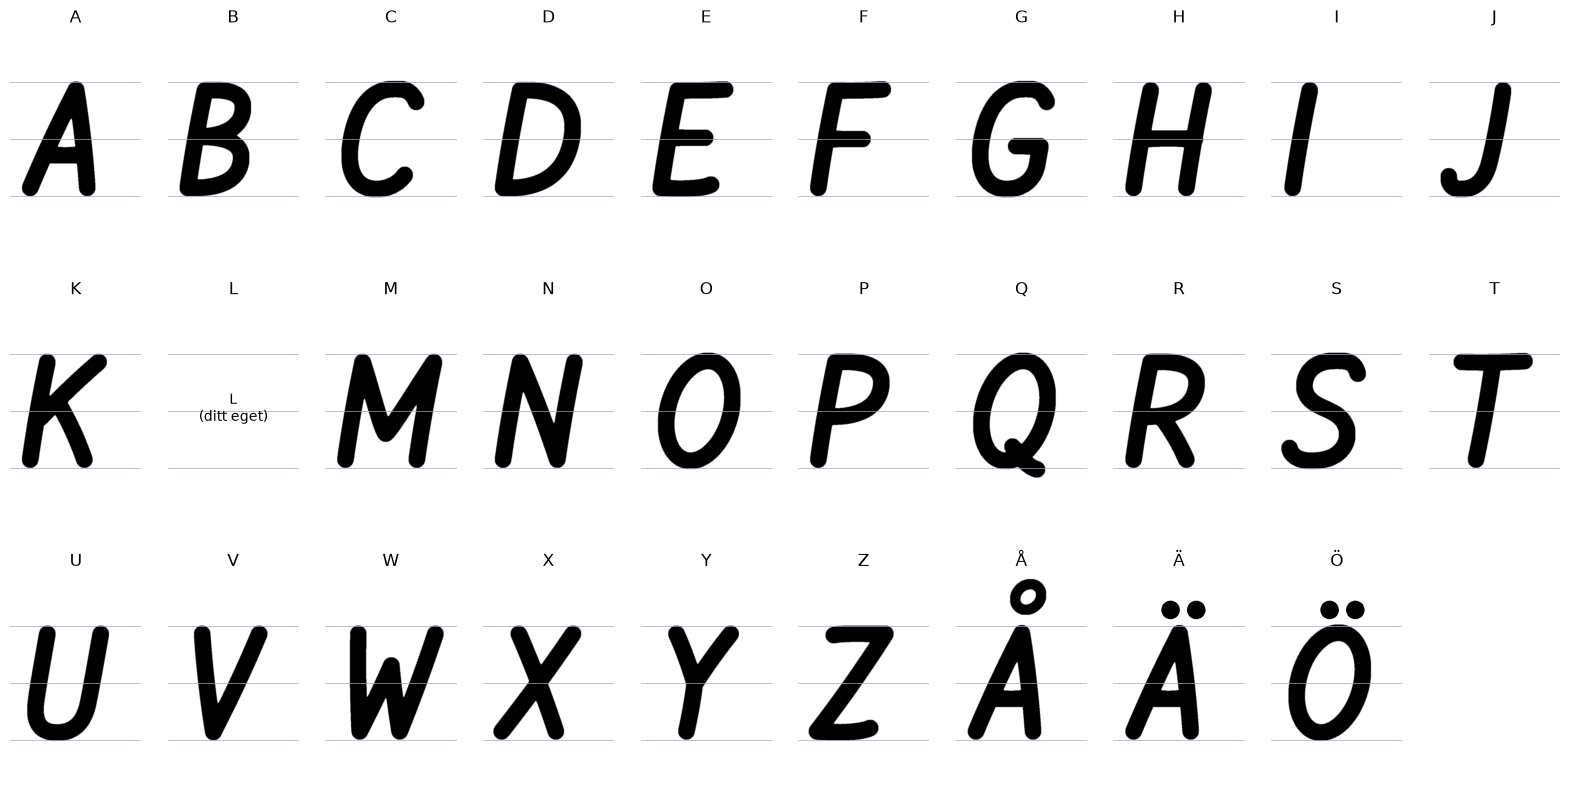
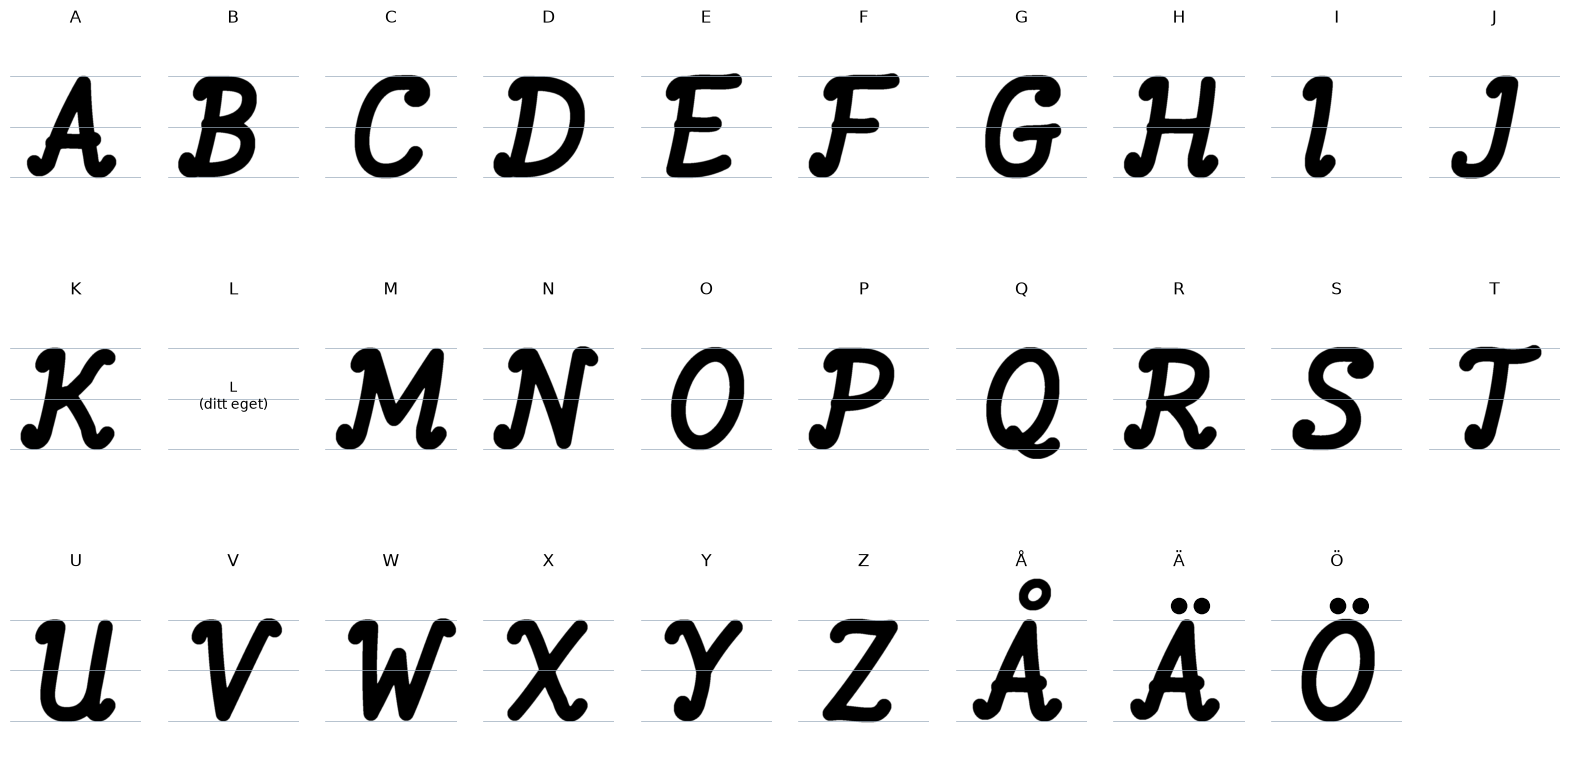
Svängigare versaler: insvängar, snirkel- och flickfötter, vågiga tvärstreck
Claude-Session: https://claude.ai/code/session_01G3Fa1qrTuHzte3kfXkaDtX

diff --git a/bokstaver/versaler.py b/bokstaver/versaler.py
@@ -54,113 +54,178 @@ def stam(x, bage=0.03):
     return linje((x, LO), (x, HI), bage)
 
 
+# --- Svängar (i samma anda som ditt L och gemenernas fötter) -------------------
+def entre(x, y=HI):
+    """Insväng uppe till vänster som leder in i en stapel."""
+    return kedja((x - 0.55, y - 0.4), ((x - 0.55, y - 0.05), (x - 0.25, y + 0.06), (x, y)))
+
+
+def flick(x, y0=0.8, lut=0.0):
+    """Fot som svänger ut åt höger, som på gemenerna (h, n, a)."""
+    x1 = x + lut * (y0 - LO - 0.1)
+    return kedja((x, y0), ((x1, LO + 0.1), (x1 + 0.15, LO - 0.04), (x1 + 0.33, LO - 0.03)),
+                 ((x1 + 0.48, LO - 0.02), (x1 + 0.58, LO + 0.12), (x1 + 0.66, LO + 0.32)))
+
+
+def snirkel(x, y0=0.85, lut=0.0):
+    """Fot som snirklar ut åt vänster, som nedre svängen på ditt L."""
+    x1 = x + lut * (y0 - LO - 0.1)
+    return kedja((x, y0), ((x1, LO + 0.05), (x1 - 0.2, LO - 0.05), (x1 - 0.42, LO - 0.01)),
+                 ((x1 - 0.6, LO + 0.03), (x1 - 0.7, LO + 0.22), (x1 - 0.6, LO + 0.42)))
+
+
+def stapel(x, topp=True, fot="snirkel", bage=0.07):
+    """Stapel med lätt sväng, valfri insväng upptill och fot (snirkel/flick/None)."""
+    y0 = 0.85 if fot else LO
+    ut = [linje((x, HI), (x, y0), bage)]
+    if topp:
+        ut.append(entre(x))
+    if fot == "snirkel":
+        ut.append(snirkel(x, y0))
+    elif fot == "flick":
+        ut.append(flick(x, y0))
+    return ut
+
+
+def vag(p0, p1, amp=0.08):
+    """Vågigt tvärstreck (S-sväng)."""
+    p0, p1 = np.array(p0, float), np.array(p1, float)
+    d = p1 - p0; n = np.array([-d[1], d[0]]) / np.hypot(*d)
+    return bez(p0, p0 + d / 3 + n * amp * 2, p0 + 2 * d / 3 - n * amp * 2, p1)
+
+
+def stam(x, bage=0.03):
+    return linje((x, LO), (x, HI), bage)
+
+
 # --- Versalerna (raka, före lutning) -----------------------------------------
 def A():
     top = (1.35, HI + 0.02)
-    return [linje((0.35, LO), top, 0.04), linje(top, (2.35, LO), 0.04), linje((0.8, 1.45), (1.9, 1.45), -0.02)]
+    return [kedja((-0.05, LO + 0.3), ((0.05, LO - 0.05), (0.3, LO - 0.04), (0.5, 0.55))),
+            linje((0.5, 0.55), top, 0.1), linje(top, (2.15, 0.8), -0.06), flick(2.15, 0.8, 0.25),
+            vag((0.55, 1.35), (2.15, 1.5), 0.07)]
 
 def B():
-    return [stam(0.35),
+    return stapel(0.35, fot="snirkel") + [
             kedja((0.35, HI), ((1.2, HI + 0.05), (1.8, HI - 0.1), (1.8, 2.95)),
                   ((1.8, 2.35), (1.2, 2.08), (0.35, 2.08))),
             kedja((0.35, 2.08), ((1.4, 2.1), (2.05, 1.85), (2.05, 1.2)),
                   ((2.05, 0.5), (1.4, LO - 0.03), (0.35, LO)))]
 
 def C():
-    return [kedja((2.3, 3.3), ((2.0, HI + 0.12), (1.6, HI + OV), (1.4, HI + OV)),
+    return [kedja((1.95, 3.15), ((2.15, 2.95), (2.45, 3.15), (2.35, 3.42)),
+                  ((2.2, HI + 0.12), (1.75, HI + OV), (1.4, HI + OV)),
                   ((0.6, HI + OV), (0.25, 3.0), (0.25, 2.0)),
                   ((0.25, 0.9), (0.7, LO - OV), (1.45, LO - OV)),
-                  ((1.85, LO - OV), (2.2, 0.45), (2.35, 0.75)))]
+                  ((1.95, LO - OV), (2.35, 0.5), (2.5, 0.95)))]
 
 def D():
-    return [stam(0.35),
+    return stapel(0.35, fot="snirkel") + [
             kedja((0.35, HI), ((1.6, HI + 0.06), (2.45, 3.3), (2.45, 2.0)),
                   ((2.45, 0.7), (1.6, LO - 0.06), (0.35, LO)))]
 
 def E():
-    return [stam(0.35), linje((0.35, HI), (2.0, HI + 0.03), -0.02), linje((0.35, 2.05), (1.6, 2.05), 0.0),
-            kedja((0.35, LO), ((1.0, LO - 0.04), (1.8, LO - 0.05), (2.1, LO + 0.12)))]
+    return stapel(0.35, fot=None) + [vag((0.35, HI), (2.15, HI + 0.12), 0.06), vag((0.35, 2.05), (1.65, 2.12), 0.05),
+            kedja((0.35, LO), ((1.0, LO - 0.08), (1.75, LO + 0.0), (2.3, LO + 0.32)))]
 
 def F():
-    return [stam(0.35), linje((0.35, HI), (2.0, HI + 0.03), -0.02), linje((0.35, 2.0), (1.6, 2.0), 0.0)]
+    return stapel(0.35, fot="snirkel") + [vag((0.35, HI), (2.15, HI + 0.12), 0.06), vag((0.35, 2.0), (1.65, 2.07), 0.05)]
 
 def G():
-    return [kedja((2.3, 3.3), ((2.0, HI + 0.12), (1.6, HI + OV), (1.4, HI + OV)),
+    return [kedja((1.95, 3.15), ((2.15, 2.95), (2.45, 3.15), (2.35, 3.42)),
+                  ((2.2, HI + 0.12), (1.75, HI + OV), (1.4, HI + OV)),
                   ((0.6, HI + OV), (0.25, 3.0), (0.25, 2.0)),
                   ((0.25, 0.9), (0.7, LO - OV), (1.45, LO - OV)),
                   ((2.0, LO - OV), (2.35, 0.6), (2.35, 1.1)),
-                  ((2.35, 1.4), (2.35, 1.6), (2.35, 1.75))),
-            linje((1.5, 1.75), (2.35, 1.75), 0.0)]
+                  ((2.35, 1.4), (2.35, 1.6), (2.35, 1.8))),
+            vag((1.35, 1.7), (2.65, 1.85), 0.05)]
 
 def H():
-    return [stam(0.35), stam(2.2), linje((0.35, 2.0), (2.2, 2.0), 0.02)]
+    return stapel(0.35, fot="snirkel") + stapel(2.2, topp=False, fot="flick") + [vag((0.35, 1.95), (2.2, 2.1), 0.07)]
 
 def I():
-    return [stam(0.4)]
+    return stapel(0.6, fot="flick")
 
 def J_():
-    return [kedja((1.65, HI), ((1.68, 2.8), (1.66, 1.6), (1.6, 1.05)),
-                  ((1.5, 0.35), (1.1, LO - 0.05), (0.75, LO - 0.04)),
-                  ((0.45, LO - 0.03), (0.3, 0.45), (0.28, 0.7)))]
+    return [kedja((1.05, HI - 0.3), ((1.15, HI + 0.05), (1.5, HI + 0.06), (1.7, HI)),
+                  ((1.72, 2.8), (1.7, 1.6), (1.62, 1.05)),
+                  ((1.5, 0.35), (1.1, LO - 0.06), (0.7, LO - 0.05)),
+                  ((0.35, LO - 0.04), (0.12, 0.35), (0.2, 0.75)))]
 
 def K_():
-    return [stam(0.35), linje((2.15, HI), (0.45, 1.75), -0.04), linje((1.0, 2.25), (2.25, LO), 0.05)]
+    return stapel(0.35, fot="snirkel") + [kedja((2.35, HI - 0.1), ((2.2, HI + 0.05), (1.9, HI), (1.6, 2.8)),
+                                                ((1.2, 2.3), (0.8, 1.85), (0.4, 1.75))),
+                                          linje((0.95, 2.2), (2.05, 0.8), 0.06), flick(2.05, 0.8, 0.3)]
 
 def M():
-    return [stam(0.35), stam(2.85), kedja((0.35, HI), ((0.9, 2.6), (1.4, 1.4), (1.6, 1.2)),
-                                          ((1.8, 1.4), (2.3, 2.6), (2.85, HI)))]
+    return stapel(0.35, fot="snirkel") + stapel(2.85, topp=False, fot="flick") + [
+            kedja((0.35, HI), ((0.9, 2.6), (1.4, 1.4), (1.6, 1.2)), ((1.8, 1.4), (2.3, 2.6), (2.85, HI)))]
 
 def N():
-    return [stam(0.35), stam(2.25), linje((0.35, HI), (2.25, LO), 0.04)]
+    return stapel(0.35, fot="snirkel") + [linje((0.35, HI), (2.25, LO), 0.08),
+            kedja((2.25, LO), ((2.25, 1.5), (2.25, 2.8), (2.27, HI)), ((2.3, HI + 0.12), (2.55, HI + 0.1), (2.75, HI - 0.15)))]
 
 def O():
     return [ellips(1.4, 2.0, 1.12, HI - 2.0 + OV)]
 
 def P():
-    return [stam(0.35), kedja((0.35, HI), ((1.4, HI + 0.06), (2.1, HI - 0.15), (2.1, 2.8)),
-                              ((2.1, 2.05), (1.4, 1.75), (0.35, 1.8)))]
+    return stapel(0.35, fot="snirkel") + [kedja((0.35, HI), ((1.4, HI + 0.06), (2.1, HI - 0.15), (2.1, 2.8)),
+                                                ((2.1, 2.05), (1.4, 1.75), (0.35, 1.8)))]
 
 def Q():
-    return O() + [kedja((1.55, 0.75), ((1.85, 0.45), (2.15, 0.05), (2.55, -0.05)))]
+    return O() + [kedja((1.25, 0.65), ((1.65, 0.2), (2.0, -0.15), (2.4, -0.1)),
+                        ((2.6, -0.07), (2.78, 0.02), (2.9, 0.18)))]
 
 def R_():
-    return P() + [linje((1.05, 1.8), (2.2, LO), 0.05)]
+    return P() + [linje((1.05, 1.8), (2.0, 0.8), 0.06), flick(2.0, 0.8, 0.3)]
 
 def S():
-    return [kedja((2.15, 3.3), ((1.95, HI + 0.08), (1.6, HI + OV), (1.25, HI + OV)),
+    return [kedja((1.85, 3.15), ((2.05, 2.95), (2.4, 3.15), (2.25, 3.42)),
+                  ((2.05, HI + 0.1), (1.6, HI + OV), (1.25, HI + OV)),
                   ((0.6, HI + OV), (0.3, 3.4), (0.35, 2.9)),
                   ((0.45, 2.3), (1.1, 2.15), (1.4, 2.0)),
                   ((2.0, 1.75), (2.25, 1.3), (2.15, 0.85)),
                   ((2.0, 0.35), (1.5, LO - OV), (1.05, LO - OV)),
-                  ((0.6, LO - OV), (0.3, 0.45), (0.22, 0.7)))]
+                  ((0.55, LO - OV), (0.15, 0.3), (0.12, 0.65)),
+                  ((0.1, 0.85), (0.25, 0.95), (0.4, 0.85)))]
 
 def T():
-    return [linje((0.2, HI), (2.4, HI + 0.03), -0.02), linje((1.3, HI), (1.3, LO), 0.03)]
+    return [kedja((0.0, HI - 0.35), ((0.05, HI + 0.05), (0.6, HI + 0.12), (1.2, HI)),
+                  ((1.8, HI - 0.1), (2.3, HI - 0.06), (2.6, HI + 0.12))),
+            linje((1.35, HI), (1.35, 0.85), 0.07), snirkel(1.35, 0.85)]
 
 def U():
-    return [kedja((0.35, HI), ((0.35, 2.4), (0.35, 1.6), (0.38, 1.2)),
+    return [entre(0.35),
+            kedja((0.35, HI), ((0.35, 2.4), (0.35, 1.6), (0.38, 1.2)),
                   ((0.45, 0.45), (0.85, LO - OV), (1.3, LO - OV)),
                   ((1.75, LO - OV), (2.15, 0.45), (2.2, 1.2)),
-                  ((2.22, 1.6), (2.22, 2.4), (2.22, HI)))]
+                  ((2.22, 1.6), (2.22, 2.4), (2.22, HI))),
+            linje((2.22, HI), (2.22, 0.8), -0.03), flick(2.22, 0.8)]
 
 def V():
     bott = (1.25, LO - 0.02)
-    return [linje((0.25, HI), bott, -0.04), linje(bott, (2.25, HI), -0.04)]
+    return [entre(0.3), linje((0.3, HI), bott, -0.06),
+            kedja(bott, ((1.6, 1.4), (2.0, 2.9), (2.3, HI)), ((2.4, HI + 0.1), (2.6, HI + 0.08), (2.7, HI - 0.12)))]
 
 def W():
-    return [linje((0.2, HI), (0.85, LO), -0.03), linje((0.85, LO), (1.55, 2.6), -0.02),
-            linje((1.55, 2.6), (2.25, LO), -0.02), linje((2.25, LO), (2.9, HI), -0.03)]
+    return [entre(0.25), linje((0.25, HI), (0.85, LO), -0.05), linje((0.85, LO), (1.55, 2.6), -0.03),
+            linje((1.55, 2.6), (2.25, LO), -0.03),
+            kedja((2.25, LO), ((2.55, 1.4), (2.75, 2.9), (2.95, HI)), ((3.05, HI + 0.1), (3.25, HI + 0.08), (3.35, HI - 0.12)))]
 
 def X():
-    return [linje((0.3, HI), (2.2, LO), 0.04), linje((2.2, HI), (0.3, LO), 0.04)]
+    return [entre(0.3), vag((0.3, HI), (2.0, 0.8), 0.06), flick(2.0, 0.8, 0.45),
+            vag((2.3, HI), (0.3, LO), -0.06)]
 
 def Y():
-    return [linje((0.3, HI), (1.25, 1.95), 0.03), linje((2.2, HI), (1.25, 1.95), -0.03), linje((1.25, 1.95), (1.25, LO), 0.02)]
+    return [entre(0.3), linje((0.3, HI), (1.25, 1.95), 0.06), linje((2.2, HI), (1.25, 1.95), -0.06),
+            linje((1.25, 1.95), (1.25, 0.85), 0.04), snirkel(1.25, 0.85)]
 
 def Z():
-    return [kedja((0.3, HI - 0.05), ((0.4, HI + 0.02), (1.4, HI), (2.1, HI))),
-            linje((2.1, HI), (0.3, LO), 0.05),
-            kedja((0.3, LO), ((1.0, LO - 0.05), (1.8, LO - 0.05), (2.15, LO + 0.12)))]
+    return [kedja((0.05, HI - 0.35), ((0.1, HI + 0.05), (0.6, HI + 0.1), (1.2, HI)),
+                  ((1.6, HI - 0.06), (1.9, HI - 0.04), (2.1, HI))),
+            linje((2.1, HI), (0.3, LO), 0.08),
+            kedja((0.3, LO), ((0.9, LO + 0.1), (1.5, LO - 0.1), (2.0, LO - 0.05)),
+                  ((2.2, LO - 0.03), (2.35, LO + 0.1), (2.4, LO + 0.3)))]
 
 
 RING_R, RING_HALV = 0.45, 0.18   # ringens mittlinje och halva tjocklek (hål ca 0.55 i diameter)
@@ -272,7 +337,7 @@ if __name__ == "__main__":
         rita_versal(ax, ut, n)
         for y in (0, 2, 4):
             ax.axhline(y, color="#9ab", lw=0.5)
-        ax.set_xlim(-0.3, 4.3); ax.set_ylim(-0.4, 5.8); ax.set_aspect("equal"); ax.axis("off"); ax.set_title(n)
+        ax.set_xlim(-0.9, 4.3); ax.set_ylim(-0.4, 5.8); ax.set_aspect("equal"); ax.axis("off"); ax.set_title(n)
     axs.ravel()[-1].axis("off")
     plt.savefig("versaler_2d.png", bbox_inches="tight", facecolor="white")
 
@@ -290,7 +355,7 @@ if __name__ == "__main__":
                     ax.fill(r[:, 0] + bredd + 0.2, r[:, 1], color="k" if j == 0 else "white", lw=0)
             for y, st in ((0, "-"), (2, "-"), (4, "-"), (-2.1, "--")):
                 ax.axhline(y, color="#9ab", lw=0.5, ls=st)
-            ax.set_xlim(-0.3, 7.0); ax.set_ylim(-2.4, 5.0); ax.set_aspect("equal"); ax.axis("off")
+            ax.set_xlim(-0.9, 6.6); ax.set_ylim(-2.4, 5.0); ax.set_aspect("equal"); ax.axis("off")
         for ax in axs.ravel()[len(par):]:
             ax.axis("off")
         plt.subplots_adjust(wspace=0.02, hspace=0.02)
